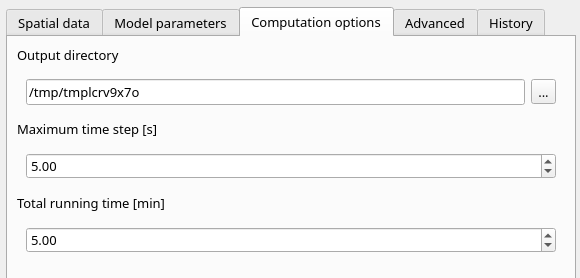
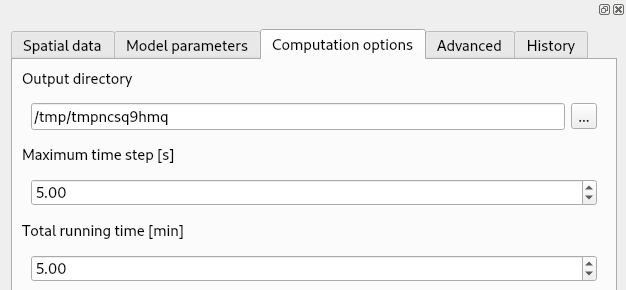
update qgis screenshots, add description

Changed region(s): [[0.0, 0.0, 1.0, 1.0], [0.4345, 0.0, 0.6828, 0.0288]]

diff --git a/user_guide/docs/providers.md b/user_guide/docs/providers.md
@@ -1,13 +1,23 @@
 # Installation and Usage
-SMODERP has been adapted to work seamlessly with various Geographic Information System (GIS) platforms. Instalation for QGIS, GRASS GIS, and ArcGIS is decribed below.
+
+SMODERP has been adapted to work seamlessly with various Geographic
+Information System (GIS) platforms. Instalation for **QGIS**
+(<https://qgis.org/>), **GRASS GIS** (<https://grass.osgeo.org/>), and
+**ArcGIS Pro**
+(<https://www.esri.com/en-us/arcgis/products/arcgis-pro/overview>) is
+decribed below.
 
 ## QGIS Plugin
-In QGIS, the plugin repository is a central storage location where users can access and manage plugins that extend the functionality of the QGIS application. SMODERP are acessed from this repository.
+
+In QGIS, the plugin repository is a central storage location where
+users can access and manage plugins that extend the functionality of
+the QGIS application. SMODERP2D may be acessed from this repository.
+
 ### Installation instructions
 
 * Install QGIS: <https://www.qgis.org/en/site/forusers/download.html>
 
-* Check button "Show also Experimental Plugins" in Plugin/Settings 
+* Check button `Show also Experimental Plugins` in Plugin/Settings 
 
 ![Install QGIS SMODERP2D plugin](./img/experimetal_settings_plugins.png)
 
@@ -21,13 +31,26 @@ toolbar ![](./img/qgis_plugin_icon.png).
 
 ### Usage
 
+The plugin consists of four tabs:
+
+- *Spatial data* for defining input spatial GIS layers
+
 ![](./img/qgis_plugin_spatial_data.png)
+
+- *Model parameters* for defining input parameters
 
 ![](./img/qgis_plugin_model_parameters.png)
 
+- *Computation options* for defining various options including target
+  directory where computation results will be stored
+
 ![](./img/qgis_plugin_comp_options.png)
 
-![](./img/qgis_plugin_advanced_new.png)
+- *Advanced* for defining advanced options
+
+![](./img/qgis_plugin_advanced.png)
+
+- History runs are stored in *History* tab
 
 ![](./img/qgis_plugin_history.png)
 
